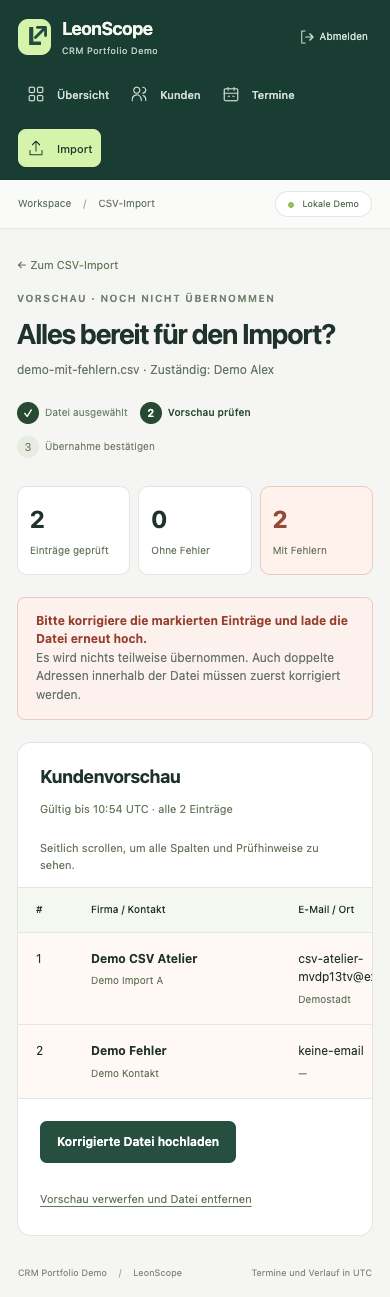
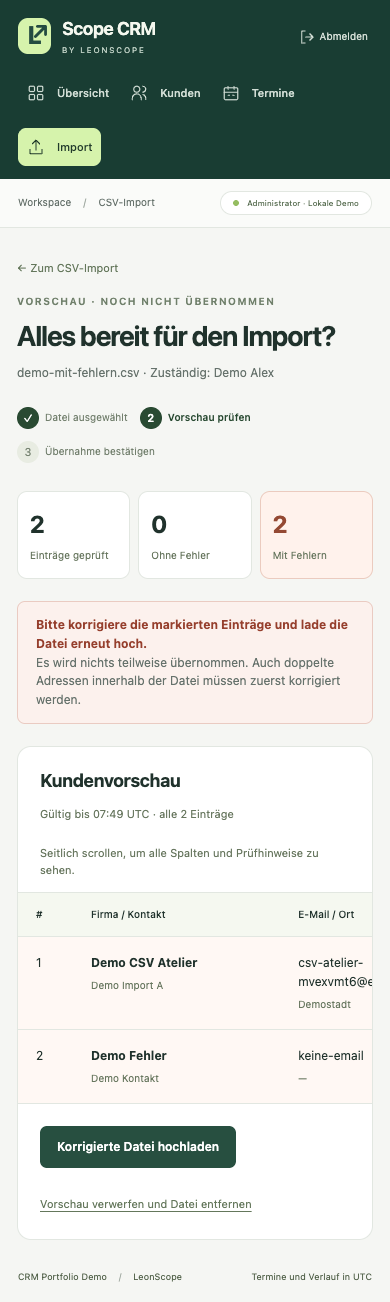
Present Scope CRM around customer workflows and refresh verified views

diff --git a/README.de.md b/README.de.md
@@ -1,42 +1,54 @@
-# CRM Portfolio Demo
+# Scope CRM
 
-**Eine Projektpräsentation von [LeonScope](https://github.com/LeonScope)**
-Full-Stack Developer · AI-Assisted Product Builder
+### Kundenarbeit mit klaren Zuständigkeiten.
+
+**Geschäftsanwendung · Laravel · Lokale Portfolio-Demo**
 
 [English](README.md) · [Fallstudie](docs/CASE-STUDY.de.md) · [Prüfergebnisse](docs/VERIFICATION.de.md)
 
-Ein CRM für kleine Vertriebs- und Serviceteams: Kunden verwalten, Zuständigkeiten klären, Gespräche dokumentieren und nächste Termine planen. Dieses Repository zeigt das Projekt anhand von Screenshots, technischen Entscheidungen und dokumentierten lokalen Prüfungen. **Der Anwendungscode bleibt privat.**
+Ein Kundeneintrag hilft, wenn die nächste Person erkennt, wer zuständig ist, was besprochen wurde und welcher Schritt ansteht. Scope CRM verbindet Zuständigkeiten, Termine, Notizen und Änderungsverlauf in einem Arbeitsbereich. Von **[LeonScope](https://github.com/LeonScope)** mit KI-Unterstützung als eigenständige Demo mit erfundenen Daten entwickelt.
 
-![Übersicht mit erfundenen Kunden, Terminen und Aktivitäten](assets/dashboard-desktop.png)
+![Scope CRM mit Teamübersicht, Terminen und direktem Zugang zum CSV-Import](assets/dashboard-desktop.png)
 
-## Was die Anwendung zeigt
+## Ein Arbeitstag im CRM
 
-- **Kundenablauf:** Kunden suchen, anlegen, bearbeiten und zuweisen; Notizen, Termine, Archiv und Wiederherstellung.
-- **Zwei Rollen:** Administratoren verwalten den Kundenbestand. Mitarbeiter greifen nur auf ihre zugewiesenen, nicht archivierten Kunden zu. Der Server setzt diese Regeln durch.
-- **Nachvollziehbare Änderungen:** Geschäftsvorgang und zugehöriger Verlaufseintrag werden gemeinsam gespeichert.
-- **Geprüfter CSV-Import:** Upload → Prüfung und Vorschau → ausdrückliche Bestätigung. Ein ungültiger Import legt keine Kunden an.
-- **Vorführbare lokale Demo:** deutsche Oberfläche, Desktop- und Smartphone-Ansichten, 40 erfundene Kunden und drei lokal erzeugte Konten.
+| Aufgabe | Sichtbares Verhalten |
+| :--- | :--- |
+| Gespräch vorbereiten | Kunden finden, Notizen lesen und anstehende Termine sehen. |
+| Verantwortung zuweisen | Administratoren verwalten den Teambestand; Mitarbeiter bearbeiten ihre zugeordneten Kunden. Der Server setzt die Zugriffsregeln durch. |
+| Änderungen nachvollziehen | Kunden- und Terminänderungen werden gemeinsam mit ihren Verlaufseinträgen gespeichert. |
+| Neue Kunden übernehmen | CSV hochladen, jede Zeile prüfen und erst anschließend den Import bestätigen. |
 
-## Ausgewählte Ansichten
+Die überarbeitete Übersicht stellt die Kundenarbeit in den Mittelpunkt: kompakte Einführung, sichtbare Rolle und direkter Zugang zur Kundenliste sowie zum Import für Administratoren. Die grüne Geschäftsoberfläche erhält die vertraute Navigation.
 
-| Importvorschau am Desktop | Fehlerprüfung auf dem Smartphone |
-| --- | --- |
-| [![CSV-Vorschau](assets/import-preview-desktop.png)](assets/import-preview-desktop.png) | <img src="assets/import-errors-mobile.png" width="220" alt="Mobile CSV-Vorschau mit ungültigen und doppelten Einträgen"> |
+## Import mit Prüfschritt
 
-[Mobile Kundenliste](assets/customers-mobile.png)
+**Upload → Prüfung und Vorschau → ausdrückliche Bestätigung.** Ungültige Importe legen keine Kunden an. Geprüft werden unter anderem Duplikate, archivierte Einträge, Zuständigkeiten, abgelaufene Vorschauen und veränderte Dateien. Der Import ergänzt neue Kunden; bestehende Datensätze werden nicht aktualisiert.
 
-## Technische Nachweise
+![CSV-Importvorschau mit Prüfung vor der Bestätigung](assets/import-preview-desktop.png)
 
-**53 Anwendungstests · 430 Einzelprüfungen · 4 erfolgreiche Browserabläufe.** Diese Ergebnisse stammen aus einer frisch eingerichteten lokalen Kopie vom 18. Oktober 2026. Neuinstallation, wiederholte Einrichtung, PHP-Codeprüfung, Produktionsbuild und Abhängigkeitsprüfungen waren ebenfalls erfolgreich. Diese öffentliche Präsentation führt keine Anwendungstests auf GitHub aus und behauptet das auch nicht. [Prüfbericht und Grenzen](docs/VERIFICATION.de.md).
+<details>
+<summary><strong>Smartphone-Ansichten</strong> — Kundensuche und Importfehler</summary>
 
-Die Anwendung verwendet **Laravel 13, PHP 8.4, Blade, SQLite und Vite**. PHPUnit prüft Fachregeln und Fehlerfälle; Playwright prüft vollständige Browserabläufe. Die [Fallstudie](docs/CASE-STUDY.de.md) erläutert die Entscheidungen und eine kurze Vorführung für ein Bewerbungsgespräch.
+<table><tr>
+<td valign="top"><strong>Kundenliste</strong><br /><img src="assets/customers-mobile.png" width="300" alt="Mobile Kundenliste mit Suche" /></td>
+<td valign="top"><strong>Importprüfung</strong><br /><img src="assets/import-errors-mobile.png" width="300" alt="Mobile CSV-Vorschau mit ungültigen und doppelten Einträgen" /></td>
+</tr></table>
 
-## Rolle und KI-Unterstützung
+</details>
 
-LeonScope legte das Portfolioziel fest, bestätigte die Produktrichtung und den Umfang und steuerte die Iterationen. Codex erzeugte Implementierung, Oberfläche, Beispieldaten und Tests und führte die dokumentierten Prüfungen aus. Die Unterstützung und die bei der Prüfung vorgenommenen Korrekturen sind offengelegt. Das CRM selbst ruft kein KI-Modell auf.
+## Was dieses Projekt belegt
 
-## Verfügbarkeit und Rechte
+Rollenbasierte Abläufe, gemeinsam gespeicherte Änderungen und Verlaufseinträge sowie einen abgesicherten Datenimport mit **Laravel 13, PHP 8.4, Blade, SQLite und Vite**. Die lokale Demo startet mit 40 erfundenen Kunden und drei erzeugten Konten.
 
-Dies ist eine Portfolio-Präsentation. Sie enthält weder den Anwendungscode noch ein Installationspaket, lokale Zugangsdaten oder eine Kundendatenbank. Eine öffentlich laufende Anwendung wird nicht bereitgestellt. Die Screenshots zeigen ausschließlich erfundene Daten einer eigenständigen Demo.
+**53 Anwendungstests mit 430 Einzelprüfungen und vier Browserabläufe bestanden.** Die Oberfläche wurde am 19. Oktober 2026 erneut geprüft; die frühere Prüfung nach frischer Installation bleibt gesondert dokumentiert. [Ergebnisse, Umgebung und Grenzen](docs/VERIFICATION.de.md).
 
-**Es wird keine Open-Source-Lizenz oder allgemeine Erlaubnis zur Weiterverwendung des eigenen Portfolio-Materials erteilt.** Gesetzliche Rechte, GitHubs Plattformbedingungen und Rechte Dritter bleiben unberührt. [Rechtehinweis](RIGHTS.md).
+LeonScope legte das Portfolioziel fest, bestätigte Produktrichtung und Umfang und steuerte die Iterationen. Codex erzeugte Implementierung, Oberfläche, Beispieldaten und Tests und führte die dokumentierten Prüfungen aus. Das CRM selbst ruft kein KI-Modell auf.
+
+## Zugang zum Projekt
+
+Dieses Repository enthält **ausschließlich die Präsentation** einer funktionsfähigen lokalen Anwendung. Quellcode, Zugangsdaten, Datenbanken und Installationspakete bleiben privat. Es gibt keine öffentlich gehostete Anwendung und keine öffentliche Anwendungs-CI. Die eigenständige Demo enthält weder Quellcode noch Geschäftsdaten des früheren Auftraggebers.
+
+Es wird keine Open-Source-Lizenz, Creative-Commons-Lizenz oder allgemeine Erlaubnis zur Weiterverwendung des eigenen Portfolio-Materials erteilt. Gesetzliche Rechte, GitHubs Plattformbedingungen und Rechte Dritter bleiben unberührt. [Rechtehinweis](RIGHTS.md).
+
+[Fallstudie und Vorführung](docs/CASE-STUDY.de.md) · [Prüfergebnisse](docs/VERIFICATION.de.md) · [LeonScope](https://github.com/LeonScope)

diff --git a/README.md b/README.md
@@ -1,42 +1,54 @@
-# CRM Portfolio Demo
+# Scope CRM
 
-**A project presentation by [LeonScope](https://github.com/LeonScope)**
-Full-Stack Developer · AI-Assisted Product Builder
+### Customer work, with clear ownership.
+
+**Business application · Laravel · Local portfolio demo**
 
 [Deutsch](README.de.md) · [Case study](docs/CASE-STUDY.md) · [Verification](docs/VERIFICATION.md)
 
-A CRM for small sales and service teams: manage customers, assign responsibility, record conversations and plan the next appointment. This repository presents the project through screenshots, engineering decisions and documented local checks. **The application source is kept private.**
+A customer record is useful when the next person can see who is responsible, what was discussed and what happens next. Scope CRM brings assignments, appointments, notes and change history into one workspace. Built by **[LeonScope](https://github.com/LeonScope)** with AI assistance as an independent demo using fictional data.
 
-![Dashboard with synthetic customers, appointments and activity](assets/dashboard-desktop.png)
+![Scope CRM overview with team responsibilities, appointments and direct CSV import access](assets/dashboard-desktop.png)
 
-## What the application demonstrates
+## A working day in the CRM
 
-- **Customer workflow:** searchable customer records, assignments, notes, appointments, archive and restore.
-- **Two roles:** administrators manage the team’s customers; employees access only their assigned, unarchived records. The server enforces these rules.
-- **Consistent history:** relevant changes and their activity entries are written together.
-- **Reviewed CSV imports:** upload → validation and preview → explicit confirmation; an invalid import creates no customers.
-- **A usable local demo:** German interface, desktop and mobile views, 40 synthetic customers and three generated local accounts.
+| Work | Visible behavior |
+| :--- | :--- |
+| Prepare a conversation | Find the customer, review notes and see upcoming appointments. |
+| Assign responsibility | Administrators manage the team view; employees work with their assigned customers. The server enforces access. |
+| Keep a useful record | Customer and appointment changes are stored together with their history entries. |
+| Bring in new customers | Upload a CSV, inspect every row and confirm before anything is imported. |
 
-## Selected screens
+The revised overview puts customer work ahead of decoration: a compact introduction, a visible role label and direct access to the customer list and administrator import. The green business interface keeps navigation familiar.
 
-| Desktop import preview | Mobile validation feedback |
-| --- | --- |
-| [![CSV preview](assets/import-preview-desktop.png)](assets/import-preview-desktop.png) | <img src="assets/import-errors-mobile.png" width="220" alt="Mobile CSV preview with invalid and duplicate rows"> |
+## Import with a review step
 
-[Mobile customer list](assets/customers-mobile.png)
+**Upload → validation and preview → explicit confirmation.** Invalid imports create no customers. Checks cover duplicates, archived records, ownership, expired previews and changed files; imports add new records rather than updating existing ones.
 
-## Engineering evidence
+![CSV import preview with validation before confirmation](assets/import-preview-desktop.png)
 
-**53 application tests · 430 assertions · 4 browser workflows passed.** These results were obtained in a fresh local checkout on 18 October 2026. Installation, repeat setup, PHP style, the production build and dependency checks also passed. This public presentation does not run or claim public application CI. See the [verification record and limits](docs/VERIFICATION.md).
+<details>
+<summary><strong>Phone views</strong> — customer search and import errors</summary>
 
-The application uses **Laravel 13, PHP 8.4, Blade, SQLite and Vite**. PHPUnit covers business rules and failure cases; Playwright checks complete browser workflows. The [case study](docs/CASE-STUDY.md) explains the design choices and a short interview walkthrough.
+<table><tr>
+<td valign="top"><strong>Customer list</strong><br /><img src="assets/customers-mobile.png" width="300" alt="Mobile CRM customer list and search" /></td>
+<td valign="top"><strong>Import validation</strong><br /><img src="assets/import-errors-mobile.png" width="300" alt="Mobile CSV preview showing invalid and duplicate rows" /></td>
+</tr></table>
 
-## Role and AI assistance
+</details>
 
-LeonScope set the portfolio goal, approved the product scope and guided the iterations. Codex generated implementation, interface, synthetic data and tests, and ran the recorded checks. The project documents that assistance and the corrections made during verification. The CRM itself does not call an AI model.
+## What this project demonstrates
 
-## Availability and rights
+Role-based workflows, transactional history and a guarded data import in **Laravel 13, PHP 8.4, Blade, SQLite and Vite**. The local demo starts with 40 fictional customers and three generated accounts.
 
-This is a portfolio presentation, not a downloadable application or a hosted service. It contains no application source, installation package, local credentials or customer database. Screenshots show synthetic data from an independent demo.
+**53 application tests / 430 assertions and four browser workflows passed.** The interface was rechecked on 19 October 2026; the earlier clean-install verification remains documented separately. [Results, environment and limits](docs/VERIFICATION.md).
 
-**No open-source license or general permission to reuse the original portfolio material is granted.** Applicable law, GitHub’s platform terms and third-party rights remain unaffected. See [rights notice](RIGHTS.md).
+LeonScope set the portfolio objective, confirmed product direction and scope, and steered the iterations. Codex generated the implementation, interface, synthetic data and tests and performed the documented verification. The CRM itself does not call an AI model.
+
+## Project access
+
+This is a **presentation-only repository** for a functional local application. Source, credentials, databases and installable packages remain private. There is no public hosted application or public application CI. The independent demo contains no former-client code or business data.
+
+No open-source license, Creative Commons license or general reuse permission is granted for original portfolio material. Statutory rights, GitHub platform terms and third-party rights remain unaffected. [Rights notice](RIGHTS.md).
+
+[Case study and interview walkthrough](docs/CASE-STUDY.md) · [Verification](docs/VERIFICATION.md) · [LeonScope](https://github.com/LeonScope)

diff --git a/docs/VERIFICATION.de.md b/docs/VERIFICATION.de.md
@@ -2,6 +2,18 @@
 
 [English](VERIFICATION.md) · [Projektübersicht](../README.de.md)
 
+## Oberflächenprüfung — 19. Oktober 2026
+
+Privater Anwendungsstand: `81eadec6dcd0711006fae2ac8dea94b73d37fb59`. Kompakte rollenbezogene Übersicht, direkter Importzugang für Administratoren und einheitliche Bezeichnung Scope CRM.
+
+**53 Anwendungstests mit 430 Einzelprüfungen und 4 Browserabläufe bestanden**, ohne Fehler, übersprungene Tests oder Browser-Wiederholungsversuche. PHP-Stilprüfung und Produktionsbuild bestanden. Die Abläufe umfassen Desktop- und Smartphone-Ansichten bei 390 Pixeln; die Screenshots wurden aus diesem Stand erneuert und visuell geprüft.
+
+Die Browserabläufe liefen in einer neuen lokalen Git-Kopie mit einer neu erzeugten synthetischen Datenbank. Bereits installierte Abhängigkeiten wurden in diese getrennte Prüfumgebung kopiert und nicht neu installiert. Die Anwendungstests liefen auf demselben Quellstand in der privaten Anwendungskopie. Abhängigkeitslisten und Lockfiles sind unverändert. Für diese Oberflächenrevision wird kein neuer echter HTTP-Messwert, keine erneute Abhängigkeitswarnprüfung und keine frische Installation der Abhängigkeiten behauptet.
+
+Die folgenden Nachweise behalten ihr ursprüngliches Datum und ihren Prüfumfang.
+
+## Frühere vollständige Prüfung — 18. Oktober 2026
+
 Diese Ergebnisse stammen aus der privaten, eigenständig entwickelten CRM-Anwendung und wurden am **18. Oktober 2026 lokal geprüft**. Das Präsentationsrepository enthält keine Anwendungstests und behauptet keinen Prüflauf der Anwendung auf GitHub. Detaillierte Protokolle, Quellcode und erzeugte Zugangsdaten werden nicht veröffentlicht.
 
 | Prüfung | Beobachtetes Ergebnis |
@@ -18,7 +30,7 @@ Diese Ergebnisse stammen aus der privaten, eigenständig entwickelten CRM-Anwend
 | Lokale Umgebung | macOS 26.6, PHP 8.4.23, Composer 2.10.1, Node 24.19.0, Google Chrome 155.0.8059.84 |
 | Ansichten | Desktop 1440 × 1060, Smartphone 390 × 844; kein seitliches Überlaufen der geprüften Seiten; die mobile CSV-Tabelle lässt sich bewusst horizontal verschieben |
 
-Der vollständige Lauf in der frischen Kopie ersetzt die früher getrennten Browserprüfungen als aktuellen Nachweis. Die Screenshots wurden mit demselben Anwendungsstand und erfundenen Daten aufgenommen. Schreibende Browserprüfungen verwendeten eine getrennte Prüfkopie.
+Der vollständige Lauf in der frischen Kopie vom 18. Oktober ersetzte die zuvor getrennten Browserprüfungen. Die aktuellen Screenshots wurden bei der Oberflächenprüfung vom 19. Oktober mit erfundenen Daten erneuert. Schreibende Browserprüfungen verwendeten eine getrennte Prüfkopie.
 
 Für die private Anwendung liegt eine GitHub-Actions-Konfiguration vor. Sie wurde nicht auf GitHub ausgeführt und gehört nicht zu dieser Präsentation. Ein öffentlicher Anwendungstestlauf, ein herunterladbarer Software-Release und eine gehostete Anwendung sind nicht Bestandteil dieses Repositorys.
 

diff --git a/docs/VERIFICATION.md b/docs/VERIFICATION.md
@@ -2,6 +2,18 @@
 
 [Deutsch](VERIFICATION.de.md) · [Project overview](../README.md)
 
+## Interface review — 19 October 2026
+
+Private application revision: `81eadec6dcd0711006fae2ac8dea94b73d37fb59`. Compact role-aware overview, direct administrator import access and consistent Scope CRM branding.
+
+**53 application tests / 430 assertions and 4 browser workflows passed**, with no failures, skips or browser retries. PHP style checking and the production build passed. The workflows include desktop and 390-pixel mobile views; screenshots were visually reviewed and refreshed from this source.
+
+Browser workflows ran in a new local clone with a newly created synthetic database. Existing installed dependencies were copied into this isolated check environment; they were not reinstalled. Application tests ran against the same source in the private application checkout. Dependency manifests and lockfiles are unchanged. No new live HTTP measurement, dependency advisory scan or fresh dependency installation is claimed for this interface revision.
+
+The checks below retain their original date and scope.
+
+## Earlier full verification — 18 October 2026
+
 These are results from the private, independent CRM application, checked locally on **18 October 2026**. This presentation repository contains no application test suite and does not claim a GitHub-hosted application run. Detailed logs, source and generated access credentials are not published.
 
 | Check | Observed result |
@@ -18,7 +30,7 @@ These are results from the private, independent CRM application, checked locally
 | Local environment | macOS 26.6, PHP 8.4.23, Composer 2.10.1, Node 24.19.0, Google Chrome 155.0.8059.84 |
 | Views | Desktop 1440 × 1060 and mobile 390 × 844; no document overflow in checked views; the mobile CSV table scrolls intentionally |
 
-The complete fresh-clone run superseded earlier separate browser runs. Existing screenshots were taken from the same application source with synthetic data. The user-facing demo was not used for browser write tests.
+The 18 October fresh-clone run superseded the earlier separate browser runs. Current screenshots were refreshed during the 19 October interface review with synthetic data. The user-facing demo was not used for browser write tests.
 
 The private application has a GitHub Actions configuration, but it was not executed remotely and is not included in this presentation. Public application CI, a downloadable software release and a hosted service are outside this repository's scope.
 
